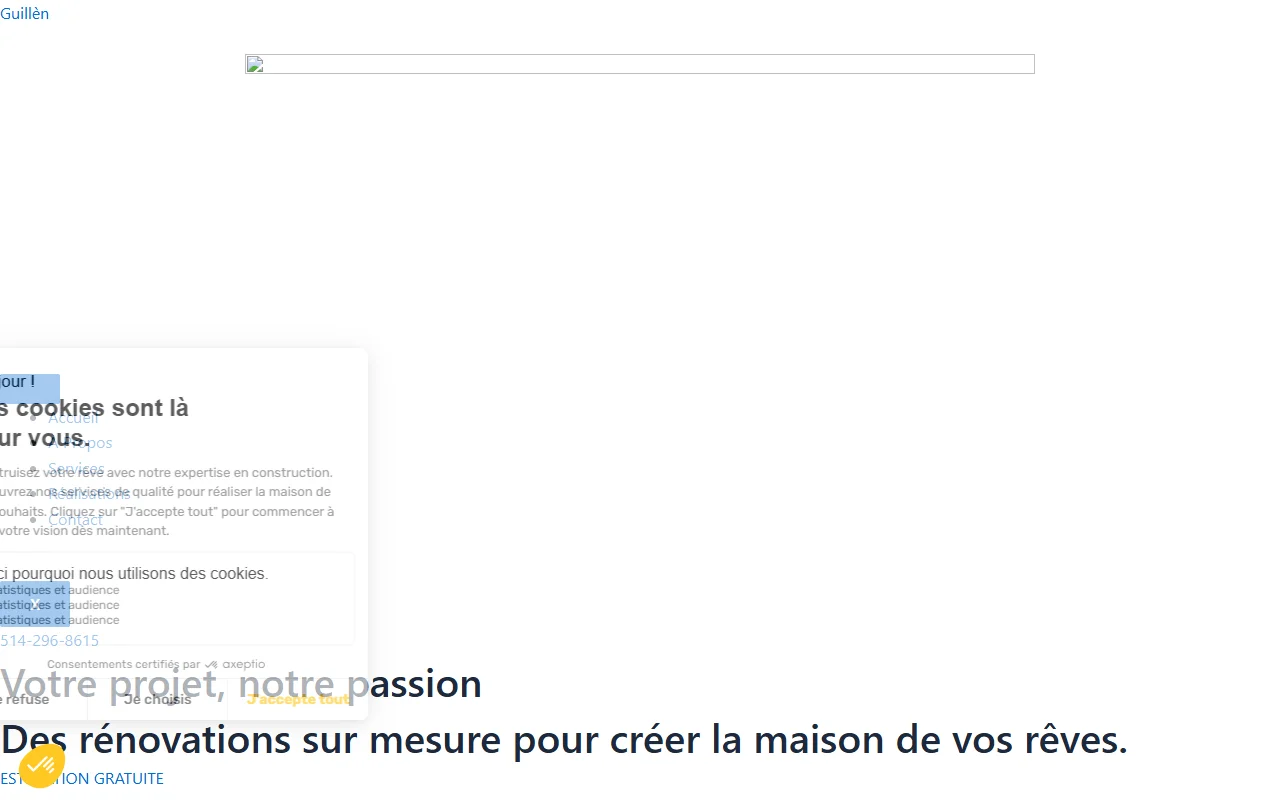
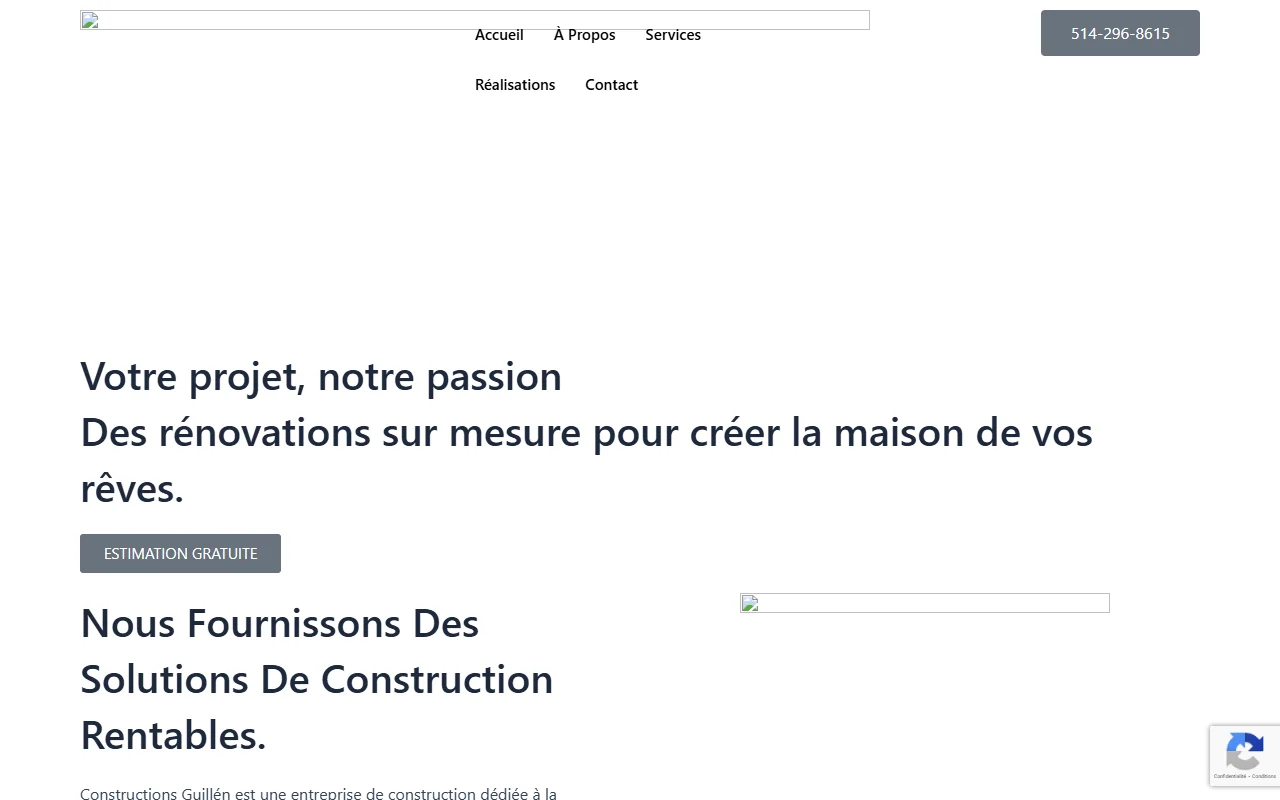
fix: corriger screenshots portfolio (cookies, WAF, sites hors ligne)
- constructions-guillen: popup Axeptio fermé
- mtl-luxe: popup cookies fermé
- patrenov: popup Cookiebot fermé
- Retirer previewImage pour 4 sites hors ligne (peinture-excel-pro,
  rasage-corporel, ethique-service-nettoyage, bout-de-choux) dont
  le CSS ne peut pas être capturé (DNS offline + Wayback sans CSS)

diff --git a/src/data/portfolio.ts b/src/data/portfolio.ts
@@ -92,7 +92,7 @@ const multiPagesProjects: PortfolioProject[] = [
     seoDescription:
       "Portfolio Lannkin : site web multipage pour Peinture Excel Pro. Conception web peinture résidentielle et commerciale au Québec.",
     externalUrl: "https://www.peintureexcelpro.com/",
-    previewImage: "/images/portfolio/peinture-excel-pro.webp",
+    // previewImage: site hors ligne, capture impossible
   },
   {
     id: "reno-st-georges",
@@ -347,7 +347,7 @@ const onePageProjects: PortfolioProject[] = [
     seoDescription:
       "Portfolio Lannkin : site onepage pour Rasage Corporel à Domicile. Conception web soins à domicile Québec, prise de rendez-vous en ligne.",
     externalUrl: "https://www.rasagecorporeladomicile.ca/",
-    previewImage: "/images/portfolio/rasage-corporel.webp",
+    // previewImage: site hors ligne, capture impossible
   },
   {
     id: "nettoyage-leblanc",
@@ -409,7 +409,7 @@ const onePageProjects: PortfolioProject[] = [
     seoDescription:
       "Portfolio Lannkin : site onepage pour Éthique Service Nettoyage. Entretien ménager écologique Québec, conception web et SEO.",
     externalUrl: "https://www.ethiqueservicenettoyage.ca/",
-    previewImage: "/images/portfolio/ethique-service-nettoyage.webp",
+    // previewImage: site hors ligne, capture impossible
   },
   {
     id: "ture-beau-menage",
@@ -509,7 +509,7 @@ const ecommerceProjects: PortfolioProject[] = [
     seoDescription:
       "Portfolio Lannkin : e-commerce Shopify pour Bout de Chou Boutique. Mode et accessoires enfants Québec, vente en ligne et Instagram Shopping.",
     externalUrl: "https://boutdechouboutique.com/",
-    previewImage: "/images/portfolio/bout-de-choux.webp",
+    // previewImage: site hors ligne, capture impossible
   },
 ];
 
